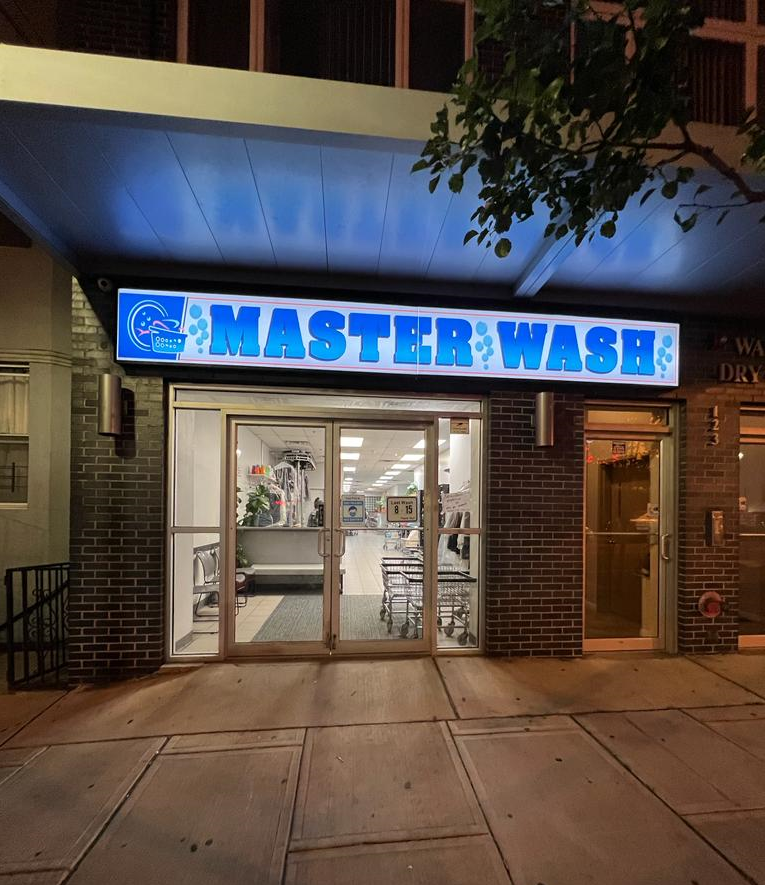
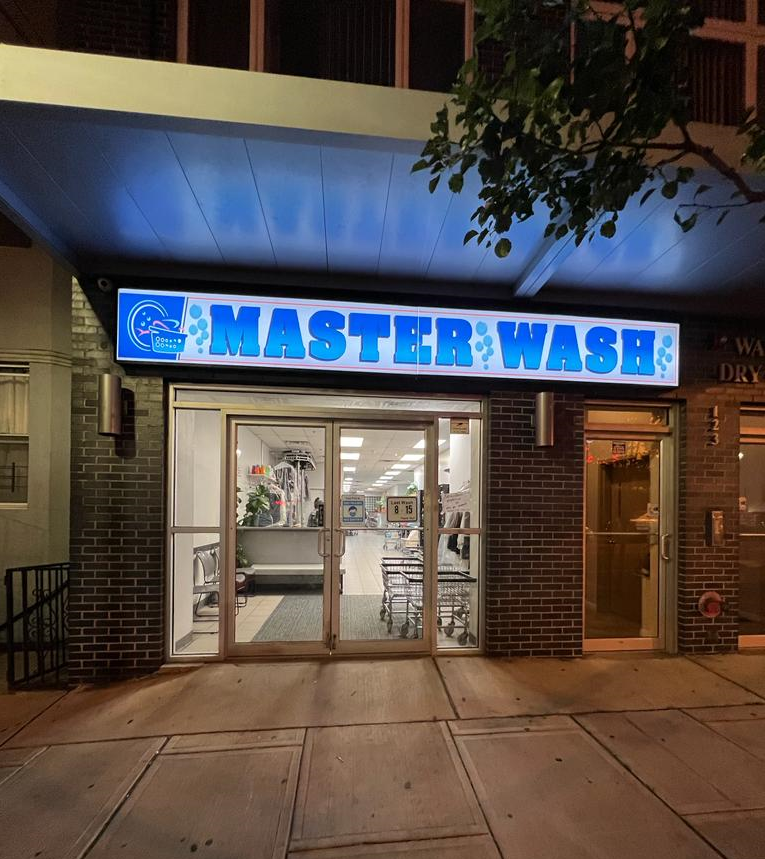
index updated

diff --git a/index.html b/index.html
@@ -910,7 +910,7 @@
         <!-- Parallax Image: Reviews Section -->
         <div
           class="parallax"
-          data-parallax-image="img/gallery/master-12.jpeg"
+          data-parallax-image="img/gallery/master-13.jpeg"
         ></div>
       </div>
       <!-- End Parallax: Reviews Section -->
